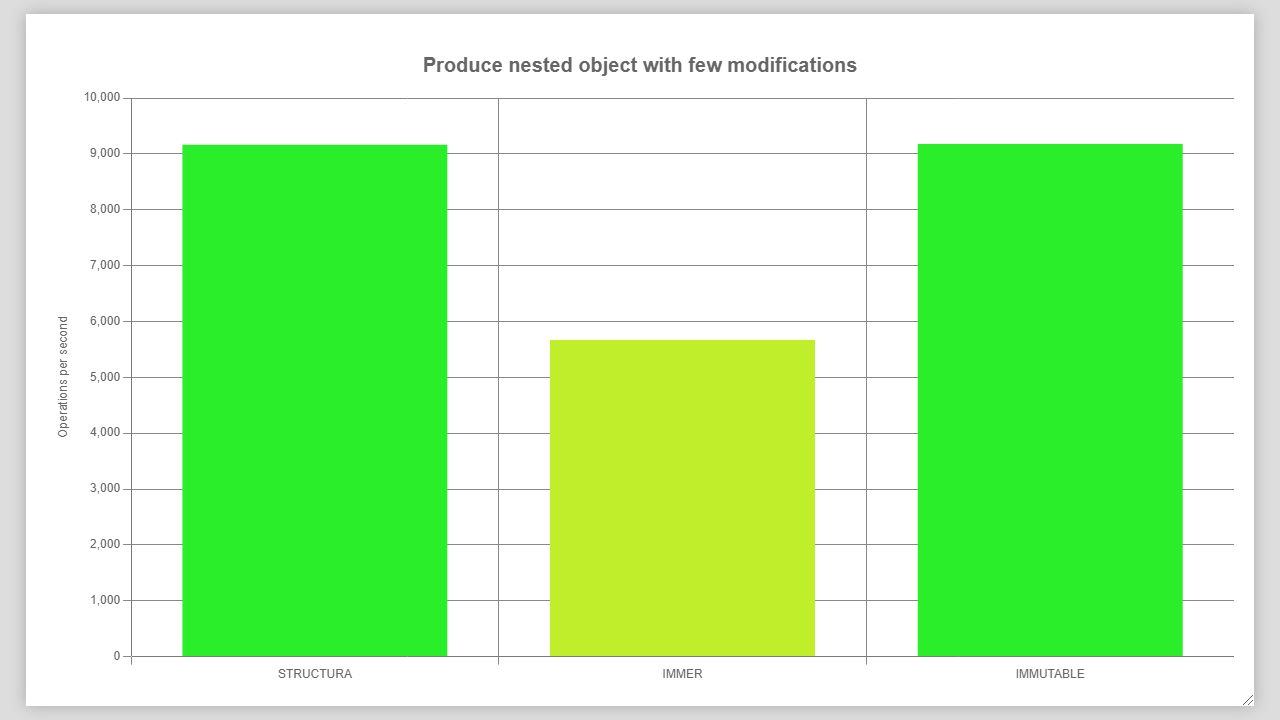
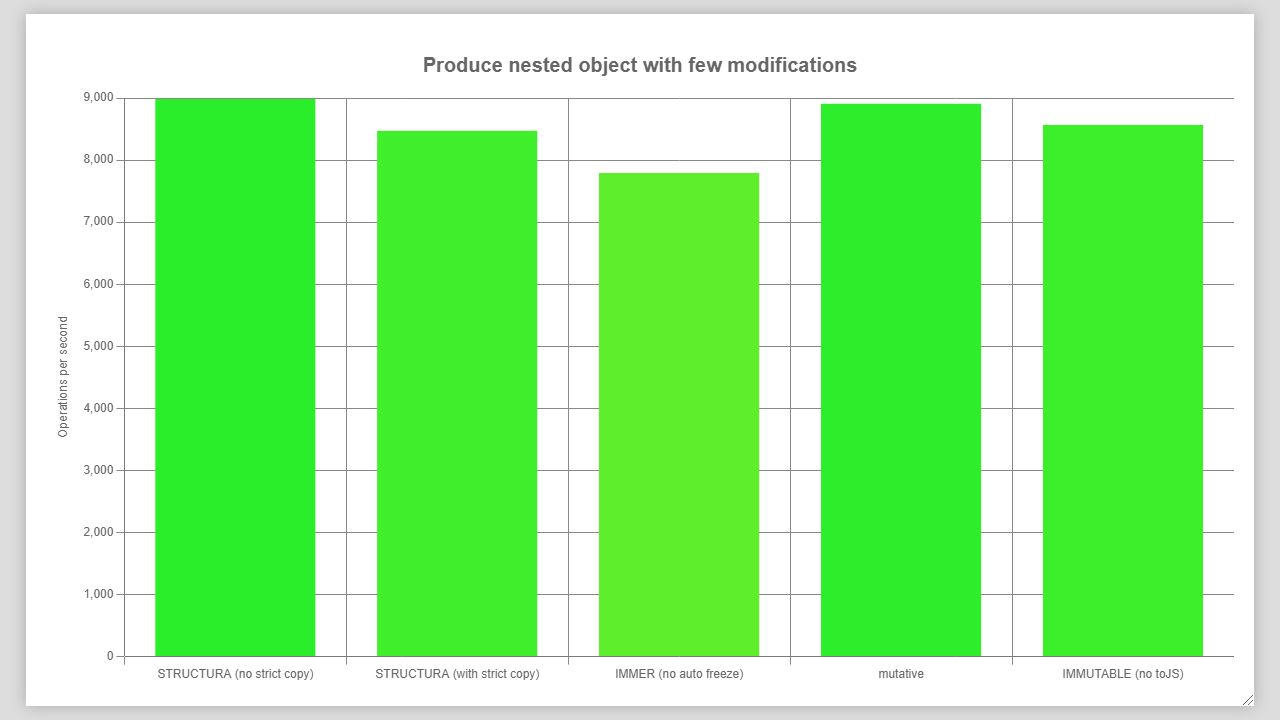
deploy: 4e23731ae794d987fb909642341310fca13a698a

diff --git a/benchmark/wide_many.chart.html b/benchmark/wide_many.chart.html
@@ -28,7 +28,7 @@
   </head>
   <body>
     <div class="container">
-      <canvas id="chart1665918712801" width="16" height="9"></canvas>
+      <canvas id="chart1674242560817" width="16" height="9"></canvas>
     </div>
     <script>
       const format = (num) => {
@@ -51,18 +51,18 @@
           chunked.map((chunk) => chunk.join('')).join(' ') + fractionStr
         )
       }
-      const ctx1665918712801 = document
-        .getElementById('chart1665918712801')
+      const ctx1674242560817 = document
+        .getElementById('chart1674242560817')
         .getContext('2d')
-      const chart1665918712801 = new Chart(ctx1665918712801, {
+      const chart1674242560817 = new Chart(ctx1674242560817, {
         type: 'bar',
         data: {
-          labels: ["STRUCTURA","IMMER","IMMUTABLE"],
+          labels: ["STRUCTURA (no strict copy)","STRUCTURA (with strict copy)","IMMER (no auto freeze)","IMMER (with auto freeze)","mutative","IMMUTABLE (no toJS)","IMMUTABLE (with toJS)"],
           datasets: [
             {
-              data: [191,9,169],
-              backgroundColor: ["hsl(120, 85%, 55%)","hsl(5.651999999999993, 85%, 55%)","hsl(106.176, 85%, 55%)"],
-              borderColor: ["hsl(120, 85%, 55%)","hsl(5.651999999999993, 85%, 55%)","hsl(106.176, 85%, 55%)"],
+              data: [178,63,30,27,190,136,67],
+              backgroundColor: ["hsl(112.41600000000001, 85%, 55%)","hsl(39.791999999999994, 85%, 55%)","hsl(18.948000000000008, 85%, 55%)","hsl(17.051999999999992, 85%, 55%)","hsl(120, 85%, 55%)","hsl(85.896, 85%, 55%)","hsl(42.312000000000005, 85%, 55%)"],
+              borderColor: ["hsl(112.41600000000001, 85%, 55%)","hsl(39.791999999999994, 85%, 55%)","hsl(18.948000000000008, 85%, 55%)","hsl(17.051999999999992, 85%, 55%)","hsl(120, 85%, 55%)","hsl(85.896, 85%, 55%)","hsl(42.312000000000005, 85%, 55%)"],
               borderWidth: 2,
             },
           ],

diff --git a/benchmark/nested_many.chart.html b/benchmark/nested_many.chart.html
@@ -28,7 +28,7 @@
   </head>
   <body>
     <div class="container">
-      <canvas id="chart1665918646254" width="16" height="9"></canvas>
+      <canvas id="chart1674242461799" width="16" height="9"></canvas>
     </div>
     <script>
       const format = (num) => {
@@ -51,18 +51,18 @@
           chunked.map((chunk) => chunk.join('')).join(' ') + fractionStr
         )
       }
-      const ctx1665918646254 = document
-        .getElementById('chart1665918646254')
+      const ctx1674242461799 = document
+        .getElementById('chart1674242461799')
         .getContext('2d')
-      const chart1665918646254 = new Chart(ctx1665918646254, {
+      const chart1674242461799 = new Chart(ctx1674242461799, {
         type: 'bar',
         data: {
-          labels: ["STRUCTURA","IMMER","IMMUTABLE"],
+          labels: ["STRUCTURA (no strict copy)","STRUCTURA (with strict copy)","IMMER (no auto freeze)","mutative","IMMUTABLE (no toJS)"],
           datasets: [
             {
-              data: [6637,1587,3344],
-              backgroundColor: ["hsl(120, 85%, 55%)","hsl(28.691999999999997, 85%, 55%)","hsl(60.456, 85%, 55%)"],
-              borderColor: ["hsl(120, 85%, 55%)","hsl(28.691999999999997, 85%, 55%)","hsl(60.456, 85%, 55%)"],
+              data: [6369,4610,3322,6126,3491],
+              backgroundColor: ["hsl(120, 85%, 55%)","hsl(86.856, 85%, 55%)","hsl(62.59199999999999, 85%, 55%)","hsl(115.41600000000001, 85%, 55%)","hsl(65.772, 85%, 55%)"],
+              borderColor: ["hsl(120, 85%, 55%)","hsl(86.856, 85%, 55%)","hsl(62.59199999999999, 85%, 55%)","hsl(115.41600000000001, 85%, 55%)","hsl(65.772, 85%, 55%)"],
               borderWidth: 2,
             },
           ],

diff --git a/benchmark/nested_few.chart.html b/benchmark/nested_few.chart.html
@@ -28,7 +28,7 @@
   </head>
   <body>
     <div class="container">
-      <canvas id="chart1665918630213" width="16" height="9"></canvas>
+      <canvas id="chart1674242435007" width="16" height="9"></canvas>
     </div>
     <script>
       const format = (num) => {
@@ -51,18 +51,18 @@
           chunked.map((chunk) => chunk.join('')).join(' ') + fractionStr
         )
       }
-      const ctx1665918630213 = document
-        .getElementById('chart1665918630213')
+      const ctx1674242435007 = document
+        .getElementById('chart1674242435007')
         .getContext('2d')
-      const chart1665918630213 = new Chart(ctx1665918630213, {
+      const chart1674242435007 = new Chart(ctx1674242435007, {
         type: 'bar',
         data: {
-          labels: ["STRUCTURA","IMMER","IMMUTABLE"],
+          labels: ["STRUCTURA (no strict copy)","STRUCTURA (with strict copy)","IMMER (no auto freeze)","mutative","IMMUTABLE (no toJS)"],
           datasets: [
             {
-              data: [9160,5668,9171],
-              backgroundColor: ["hsl(119.856, 85%, 55%)","hsl(74.16, 85%, 55%)","hsl(120, 85%, 55%)"],
-              borderColor: ["hsl(119.856, 85%, 55%)","hsl(74.16, 85%, 55%)","hsl(120, 85%, 55%)"],
+              data: [8980,8473,7785,8908,8565],
+              backgroundColor: ["hsl(120, 85%, 55%)","hsl(113.21999999999998, 85%, 55%)","hsl(104.028, 85%, 55%)","hsl(119.03999999999999, 85%, 55%)","hsl(114.456, 85%, 55%)"],
+              borderColor: ["hsl(120, 85%, 55%)","hsl(113.21999999999998, 85%, 55%)","hsl(104.028, 85%, 55%)","hsl(119.03999999999999, 85%, 55%)","hsl(114.456, 85%, 55%)"],
               borderWidth: 2,
             },
           ],

diff --git a/benchmark/small_many.chart.html b/benchmark/small_many.chart.html
@@ -28,7 +28,7 @@
   </head>
   <body>
     <div class="container">
-      <canvas id="chart1665918679357" width="16" height="9"></canvas>
+      <canvas id="chart1674242500563" width="16" height="9"></canvas>
     </div>
     <script>
       const format = (num) => {
@@ -51,18 +51,18 @@
           chunked.map((chunk) => chunk.join('')).join(' ') + fractionStr
         )
       }
-      const ctx1665918679357 = document
-        .getElementById('chart1665918679357')
+      const ctx1674242500563 = document
+        .getElementById('chart1674242500563')
         .getContext('2d')
-      const chart1665918679357 = new Chart(ctx1665918679357, {
+      const chart1674242500563 = new Chart(ctx1674242500563, {
         type: 'bar',
         data: {
-          labels: ["STRUCTURA","IMMER","IMMUTABLE"],
+          labels: ["STRUCTURA","IMMER","mutative","IMMUTABLE"],
           datasets: [
             {
-              data: [244504,48091,555197],
-              backgroundColor: ["hsl(52.848, 85%, 55%)","hsl(10.391999999999996, 85%, 55%)","hsl(120, 85%, 55%)"],
-              borderColor: ["hsl(52.848, 85%, 55%)","hsl(10.391999999999996, 85%, 55%)","hsl(120, 85%, 55%)"],
+              data: [223310,106373,113068,526891],
+              backgroundColor: ["hsl(50.856, 85%, 55%)","hsl(24.227999999999994, 85%, 55%)","hsl(25.751999999999992, 85%, 55%)","hsl(120, 85%, 55%)"],
+              borderColor: ["hsl(50.856, 85%, 55%)","hsl(24.227999999999994, 85%, 55%)","hsl(25.751999999999992, 85%, 55%)","hsl(120, 85%, 55%)"],
               borderWidth: 2,
             },
           ],

diff --git a/benchmark/wide_few.chart.html b/benchmark/wide_few.chart.html
@@ -28,7 +28,7 @@
   </head>
   <body>
     <div class="container">
-      <canvas id="chart1665918695891" width="16" height="9"></canvas>
+      <canvas id="chart1674242522230" width="16" height="9"></canvas>
     </div>
     <script>
       const format = (num) => {
@@ -51,18 +51,18 @@
           chunked.map((chunk) => chunk.join('')).join(' ') + fractionStr
         )
       }
-      const ctx1665918695891 = document
-        .getElementById('chart1665918695891')
+      const ctx1674242522230 = document
+        .getElementById('chart1674242522230')
         .getContext('2d')
-      const chart1665918695891 = new Chart(ctx1665918695891, {
+      const chart1674242522230 = new Chart(ctx1674242522230, {
         type: 'bar',
         data: {
-          labels: ["STRUCTURA","IMMER","IMMUTABLE"],
+          labels: ["STRUCTURA","IMMER","mutative","IMMUTABLE"],
           datasets: [
             {
-              data: [190,14,157],
-              backgroundColor: ["hsl(120, 85%, 55%)","hsl(8.844000000000005, 85%, 55%)","hsl(99.15599999999999, 85%, 55%)"],
-              borderColor: ["hsl(120, 85%, 55%)","hsl(8.844000000000005, 85%, 55%)","hsl(99.15599999999999, 85%, 55%)"],
+              data: [187,37,189,146],
+              backgroundColor: ["hsl(118.728, 85%, 55%)","hsl(23.495999999999995, 85%, 55%)","hsl(120, 85%, 55%)","hsl(92.69999999999999, 85%, 55%)"],
+              borderColor: ["hsl(118.728, 85%, 55%)","hsl(23.495999999999995, 85%, 55%)","hsl(120, 85%, 55%)","hsl(92.69999999999999, 85%, 55%)"],
               borderWidth: 2,
             },
           ],

diff --git a/benchmark/small_few.chart.html b/benchmark/small_few.chart.html
@@ -28,7 +28,7 @@
   </head>
   <body>
     <div class="container">
-      <canvas id="chart1665918662749" width="16" height="9"></canvas>
+      <canvas id="chart1674242478358" width="16" height="9"></canvas>
     </div>
     <script>
       const format = (num) => {
@@ -51,18 +51,18 @@
           chunked.map((chunk) => chunk.join('')).join(' ') + fractionStr
         )
       }
-      const ctx1665918662749 = document
-        .getElementById('chart1665918662749')
+      const ctx1674242478358 = document
+        .getElementById('chart1674242478358')
         .getContext('2d')
-      const chart1665918662749 = new Chart(ctx1665918662749, {
+      const chart1674242478358 = new Chart(ctx1674242478358, {
         type: 'bar',
         data: {
           labels: ["STRUCTURA","IMMER","IMMUTABLE"],
           datasets: [
             {
-              data: [1091137,53399,1859857],
-              backgroundColor: ["hsl(70.404, 85%, 55%)","hsl(3.4440000000000053, 85%, 55%)","hsl(120, 85%, 55%)"],
-              borderColor: ["hsl(70.404, 85%, 55%)","hsl(3.4440000000000053, 85%, 55%)","hsl(120, 85%, 55%)"],
+              data: [1201170,187540,1949934],
+              backgroundColor: ["hsl(73.92, 85%, 55%)","hsl(11.544000000000006, 85%, 55%)","hsl(120, 85%, 55%)"],
+              borderColor: ["hsl(73.92, 85%, 55%)","hsl(11.544000000000006, 85%, 55%)","hsl(120, 85%, 55%)"],
               borderWidth: 2,
             },
           ],
